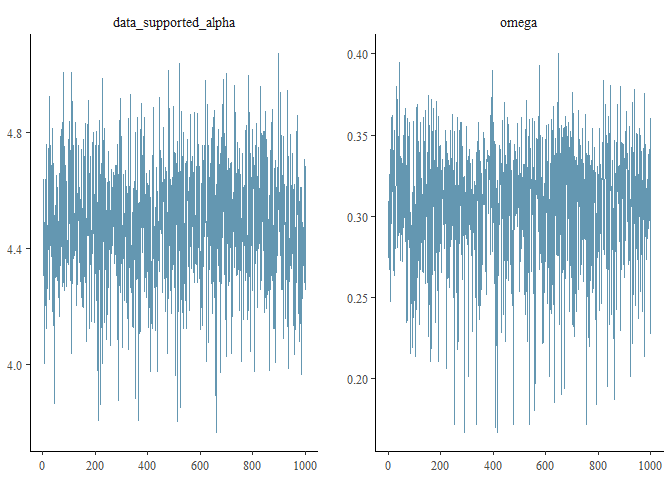
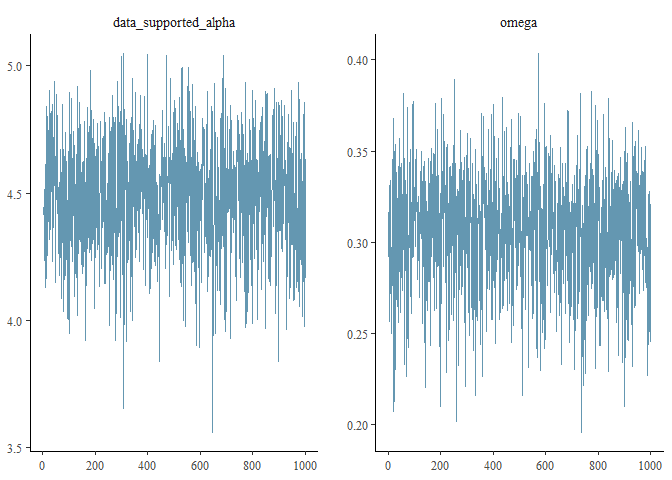
Updated README.

diff --git a/README.md b/README.md
@@ -88,6 +88,12 @@ d_fit <-
     warmup = 500)
 #> 
 #> SAMPLING FOR MODEL 'plumstan_model' NOW (CHAIN 1).
+#> Chain 1: Rejecting initial value:
+#> Chain 1:   Log probability evaluates to log(0), i.e. negative infinity.
+#> Chain 1:   Stan can't start sampling from this initial value.
+#> Chain 1: Rejecting initial value:
+#> Chain 1:   Log probability evaluates to log(0), i.e. negative infinity.
+#> Chain 1:   Stan can't start sampling from this initial value.
 #> Chain 1: 
 #> Chain 1: Gradient evaluation took 0 seconds
 #> Chain 1: 1000 transitions using 10 leapfrog steps per transition would take 0 seconds.
@@ -107,13 +113,10 @@ d_fit <-
 #> Chain 1: Iteration: 1400 / 1500 [ 93%]  (Sampling)
 #> Chain 1: Iteration: 1500 / 1500 [100%]  (Sampling)
 #> Chain 1: 
-#> Chain 1:  Elapsed Time: 1.242 seconds (Warm-up)
-#> Chain 1:                1.04 seconds (Sampling)
-#> Chain 1:                2.282 seconds (Total)
+#> Chain 1:  Elapsed Time: 1.214 seconds (Warm-up)
+#> Chain 1:                1.055 seconds (Sampling)
+#> Chain 1:                2.269 seconds (Total)
 #> Chain 1:
-#> Warning: There were 1 divergent transitions after warmup. Increasing adapt_delta above 0.8 may help. See
-#> http://mc-stan.org/misc/warnings.html#divergent-transitions-after-warmup
-#> Warning: Examine the pairs() plot to diagnose sampling problems
 ```
 
 `d_fit` is an object of class `plumstan_fit` that is an object of class `stanfit`. Thus, all functions of the R packages `rstan` and `bayesplot` may be used in order to investigate and validate the fitted model.
@@ -132,26 +135,26 @@ d_extracted_fit <-
 ``` r
 head(d_extracted_fit)
 #>   iter data_type depth_profile depth_lower depth_upper      age
-#> 1    1     pb210      measured          29          28 274.9063
-#> 2    2     pb210      measured          29          28 232.2377
-#> 3    3     pb210      measured          29          28 235.5477
-#> 4    4     pb210      measured          29          28 253.2020
-#> 5    5     pb210      measured          29          28 186.5483
-#> 6    6     pb210      measured          29          28 233.5481
+#> 1    1     pb210      measured          29          28 257.6799
+#> 2    2     pb210      measured          29          28 237.0759
+#> 3    3     pb210      measured          29          28 211.6760
+#> 4    4     pb210      measured          29          28 185.5474
+#> 5    5     pb210      measured          29          28 284.8788
+#> 6    6     pb210      measured          29          28 210.9863
 #>   depth_accumulation_rate depth_accumulation_rate_alpha pb210_tot
-#> 1                      NA                            NA  16.73121
-#> 2                      NA                            NA  16.63702
-#> 3                      NA                            NA  16.39858
-#> 4                      NA                            NA  16.22535
-#> 5                      NA                            NA  15.40508
-#> 6                      NA                            NA  15.99709
+#> 1                      NA                            NA  18.32185
+#> 2                      NA                            NA  16.06610
+#> 3                      NA                            NA  15.66435
+#> 4                      NA                            NA  17.53089
+#> 5                      NA                            NA  17.08202
+#> 6                      NA                            NA  18.21800
 #>   pb210_supported     omega
-#> 1        4.637890 0.2740272
-#> 2        4.342211 0.2926137
-#> 3        4.306121 0.3258331
-#> 4        4.490591 0.3139288
-#> 5        4.002054 0.2674669
-#> 6        4.301273 0.3231475
+#> 1        4.437940 0.3163965
+#> 2        4.413944 0.2977588
+#> 3        4.444461 0.2863706
+#> 4        4.425640 0.3022443
+#> 5        4.236175 0.2565575
+#> 6        4.512631 0.3283439
 ```
 
 With `d_extracted_fit`, it is easy to plot the modeled age-depth profile, e.g. using functions of `ggplot2`: Here, I plotted the estimated sediment ages versus lower section depths according to the first 500 draws of the MCMC algorithm.
